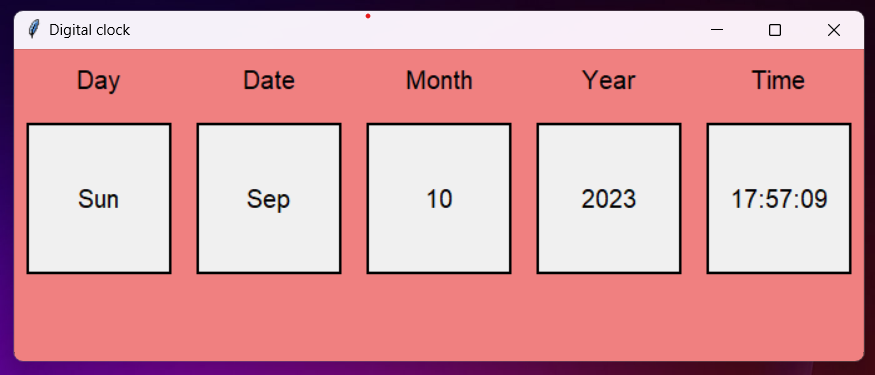
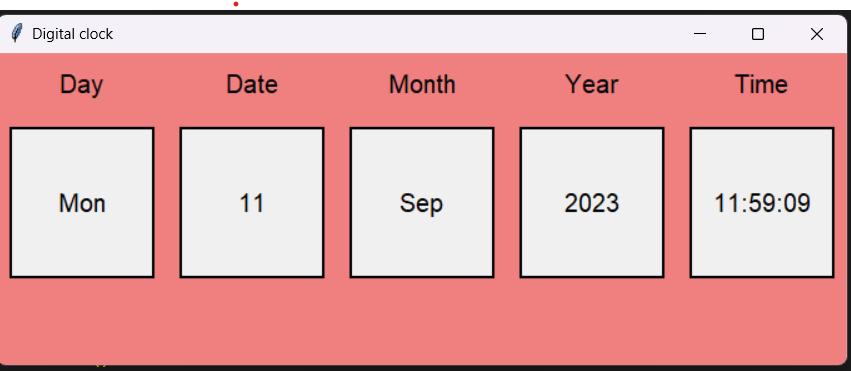
Initial commit

diff --git a/gui.py b/gui.py
@@ -12,8 +12,8 @@ def update_clock():
 
     # Update the label texts with the current time
     box_a.config(text=Day)
-    box_b.config(text=Date)
-    box_c.config(text=Month)
+    box_b.config(text=Month)
+    box_c.config(text=Date)
     box_d.config(text=Year)
     box_e.config(text=RealTime)
 
